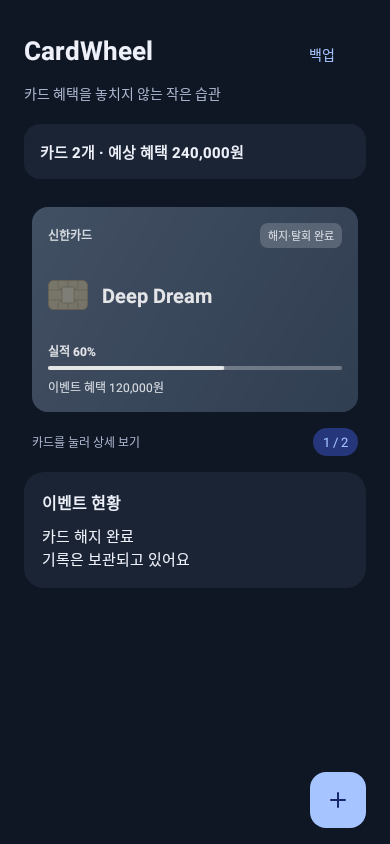
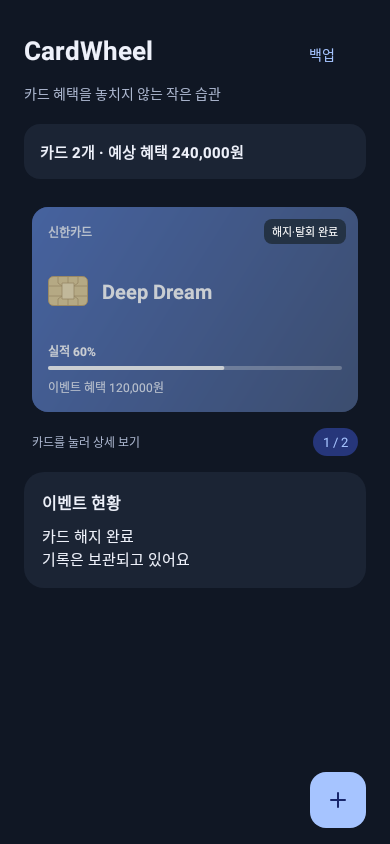
CardWheel-1.3.2

Changed region(s): [[0.0615, 0.2464, 0.9231, 0.4929]]

diff --git a/design-preview/index.html b/design-preview/index.html
@@ -1,5 +1,5 @@
-<!doctype html><html lang="ko"><meta charset="utf-8"><meta name="viewport" content="width=device-width, initial-scale=1"><title>CardWheel 1.3.1 디자인 미리보기</title><style>
+<!doctype html><html lang="ko"><meta charset="utf-8"><meta name="viewport" content="width=device-width, initial-scale=1"><title>CardWheel 1.3.2 디자인 미리보기</title><style>
 *{box-sizing:border-box}body{margin:0;background:#eef1f6;color:#18243d;font-family:system-ui,"Malgun Gothic",sans-serif}header{padding:40px 24px 24px;max-width:1440px;margin:auto}h1{font-size:28px;margin:0 0 12px}p{color:#65718a;line-height:1.6;margin:0 0 20px}.actions{display:flex;gap:8px}button{cursor:pointer;border:0;border-radius:12px;padding:12px 20px;background:white;color:#18243d;font-weight:600}button[aria-pressed=true]{background:#335ceb;color:white}main{max-width:1440px;margin:auto;display:grid;grid-template-columns:repeat(auto-fit,minmax(260px,1fr));gap:28px;padding:0 24px 40px}article{margin:0}h2{font-size:16px;margin:12px 0}img{display:block;width:100%;max-width:390px;border-radius:20px;box-shadow:0 8px 30px #18243d12}body.dark{background:#101724;color:#eef1fa}body.dark p{color:#adb8d0}body.dark button{background:#253246;color:#eef1fa}body.dark button[aria-pressed=true]{background:#a6c4ff;color:#18266b}
-</style><header><h1>CardWheel 1.3.1</h1><p>테두리는 줄이고, 카드와 정보가 잘 보이도록 정리했습니다.<br>샘플 데이터를 넣어 앱의 XML 화면을 렌더링한 미리보기입니다. 실제 휴대폰 캡처는 아닙니다.</p><div class="actions"><button aria-pressed="true" onclick="setMode(false)">밝은 화면</button><button aria-pressed="false" onclick="setMode(true)">어두운 화면</button></div></header><main><article><h2>내 카드</h2><img src="main-notnight.png" data-name="main" alt="내 카드 화면" loading="lazy"></article><article><h2>카드 상세</h2><img src="detail-notnight.png" data-name="detail" alt="카드 상세 화면" loading="lazy"></article><article><h2>카드 등록</h2><img src="form-notnight.png" data-name="form" alt="카드 등록 화면" loading="lazy"></article><article><h2>백업과 복원</h2><img src="backup-notnight.png" data-name="backup" alt="백업과 복원 화면" loading="lazy"></article><article><h2>상세 일정과 메모</h2><img src="detail-bottom-notnight.png" data-name="detail-bottom" alt="상세 일정과 메모 화면" loading="lazy"></article><article><h2>날짜 선택과 메모</h2><img src="form-bottom-notnight.png" data-name="form-bottom" alt="날짜 선택과 메모 화면" loading="lazy"></article><article><h2>서버 연결 설정</h2><img src="backup-bottom-notnight.png" data-name="backup-bottom" alt="서버 연결 설정 화면" loading="lazy"></article><article><h2>해지·탈회 완료 카드</h2><img src="main-cancelled-notnight.png" data-name="main-cancelled" alt="해지 완료 카드 화면" loading="lazy"></article></main><script>
+</style><header><h1>CardWheel 1.3.2</h1><p>테두리는 줄이고, 카드와 정보가 잘 보이도록 정리했습니다.<br>샘플 데이터를 넣어 앱의 XML 화면을 렌더링한 미리보기입니다. 실제 휴대폰 캡처는 아닙니다.</p><div class="actions"><button aria-pressed="true" onclick="setMode(false)">밝은 화면</button><button aria-pressed="false" onclick="setMode(true)">어두운 화면</button></div></header><main><article><h2>내 카드</h2><img src="main-notnight.png" data-name="main" alt="내 카드 화면" loading="lazy"></article><article><h2>카드 상세</h2><img src="detail-notnight.png" data-name="detail" alt="카드 상세 화면" loading="lazy"></article><article><h2>카드 등록</h2><img src="form-notnight.png" data-name="form" alt="카드 등록 화면" loading="lazy"></article><article><h2>백업과 복원</h2><img src="backup-notnight.png" data-name="backup" alt="백업과 복원 화면" loading="lazy"></article><article><h2>상세 일정과 메모</h2><img src="detail-bottom-notnight.png" data-name="detail-bottom" alt="상세 일정과 메모 화면" loading="lazy"></article><article><h2>날짜 선택과 메모</h2><img src="form-bottom-notnight.png" data-name="form-bottom" alt="날짜 선택과 메모 화면" loading="lazy"></article><article><h2>서버 연결 설정</h2><img src="backup-bottom-notnight.png" data-name="backup-bottom" alt="서버 연결 설정 화면" loading="lazy"></article><article><h2>해지·탈회 완료 카드</h2><img src="main-cancelled-notnight.png" data-name="main-cancelled" alt="해지 완료 카드 화면" loading="lazy"></article></main><script>
 function setMode(dark){document.body.classList.toggle('dark',dark);document.querySelectorAll('img[data-name]').forEach(img=>img.src=img.dataset.name+'-'+(dark?'night':'notnight')+'.png');document.querySelectorAll('button').forEach((b,i)=>b.setAttribute('aria-pressed',String(i===(dark?1:0))));}
 </script></html>

diff --git a/app/src/main/java/com/example/cardwheel/CardAdapter.kt b/app/src/main/java/com/example/cardwheel/CardAdapter.kt
@@ -34,30 +34,21 @@ class CardAdapter(private val onClick: (CardItem) -> Unit) : RecyclerView.Adapte
         with(holder.itemView) {
             val palette = IssuerCatalog.palette(card.company)
             val content = findViewById<View>(R.id.cardContent)
-            content.alpha = if (card.cancelled) 0.88f else 1f
-            findViewById<View>(R.id.cardChip).alpha = if (card.cancelled) 0.42f else 1f
+            content.alpha = 1f
+            findViewById<View>(R.id.cardChip).alpha = 1f
+            findViewById<View>(R.id.cancelledScrim).visibility = if (card.cancelled) View.VISIBLE else View.GONE
+            findViewById<View>(R.id.tvCancelledBadge).visibility = if (card.cancelled) View.VISIBLE else View.GONE
+            findViewById<View>(R.id.tvBrand).visibility = if (card.cancelled) View.INVISIBLE else View.VISIBLE
             content.background = GradientDrawable(
-                GradientDrawable.Orientation.TL_BR, if (card.cancelled) intArrayOf(Color.parseColor("#475569"), Color.parseColor("#334155")) else intArrayOf(Color.parseColor(palette.start), Color.parseColor(palette.end))
+                GradientDrawable.Orientation.TL_BR, intArrayOf(Color.parseColor(palette.start), Color.parseColor(palette.end))
             ).apply { cornerRadius = 16f * resources.displayMetrics.density }
-            val foreground = Color.parseColor(if (palette.light && !card.cancelled) "#322A16" else "#FFFFFF")
-            val secondary = Color.parseColor(if (card.cancelled) "#F1F5F9" else if (palette.light) "#514322" else "#E2E8F6")
+            val foreground = Color.parseColor(if (palette.light) "#322A16" else "#FFFFFF")
+            val secondary = Color.parseColor(if (palette.light) "#514322" else "#E2E8F6")
             listOf(R.id.tvCardName, R.id.tvProgress).forEach { findViewById<TextView>(it).setTextColor(foreground) }
             listOf(R.id.tvBrand, R.id.tvCompany, R.id.tvReward).forEach { findViewById<TextView>(it).setTextColor(secondary) }
             findViewById<LinearProgressIndicator>(R.id.progressSpend).apply {
-                setIndicatorColor(if (palette.light && !card.cancelled) foreground else Color.WHITE)
-                trackColor = Color.parseColor(if (palette.light && !card.cancelled) "#D2AB47" else "#55FFFFFF")
-            }
-            findViewById<TextView>(R.id.tvBrand).apply {
-                text = context.getString(if (card.cancelled) R.string.card_cancelled_badge else R.string.item_card_text_3)
-                textSize = if (card.cancelled) 11f else 9f
-                letterSpacing = if (card.cancelled) 0f else 0.12f
-                background = if (card.cancelled) GradientDrawable().apply {
-                    setColor(Color.parseColor("#33FFFFFF"))
-                    cornerRadius = 8f * resources.displayMetrics.density
-                } else null
-                val horizontal = if (card.cancelled) (8 * resources.displayMetrics.density).toInt() else 0
-                val vertical = if (card.cancelled) (4 * resources.displayMetrics.density).toInt() else 0
-                setPadding(horizontal, vertical, horizontal, vertical)
+                setIndicatorColor(if (palette.light) foreground else Color.WHITE)
+                trackColor = Color.parseColor(if (palette.light) "#D2AB47" else "#55FFFFFF")
             }
             findViewById<TextView>(R.id.tvCompany).text = card.company
             findViewById<TextView>(R.id.tvCardName).text = card.cardName

diff --git a/app/src/test/java/com/example/cardwheel/CardWorkflowTest.kt b/app/src/test/java/com/example/cardwheel/CardWorkflowTest.kt
@@ -50,14 +50,20 @@ class CardWorkflowTest {
         assertArrayEquals(intArrayOf(android.graphics.Color.parseColor("#17539A"), android.graphics.Color.parseColor("#142F59")), background.colors)
         adapter.submitItems(listOf(CardItem(id = 3, company = "KB국민카드", cardName = "해지한 카드", cancelled = true)))
         adapter.onBindViewHolder(holder, 0)
-        assertEquals(0.88f, holder.itemView.findViewById<View>(R.id.cardContent).alpha, 0.001f)
-        assertEquals("해지·탈회 완료", holder.itemView.findViewById<TextView>(R.id.tvBrand).text.toString())
-        assertNotNull(holder.itemView.findViewById<TextView>(R.id.tvBrand).background)
-        assertEquals(android.graphics.Color.WHITE, holder.itemView.findViewById<TextView>(R.id.tvCardName).currentTextColor)
+        assertEquals(1f, holder.itemView.findViewById<View>(R.id.cardContent).alpha, 0.001f)
+        assertEquals(View.VISIBLE, holder.itemView.findViewById<View>(R.id.cancelledScrim).visibility)
+        assertEquals("해지·탈회 완료", holder.itemView.findViewById<TextView>(R.id.tvCancelledBadge).text.toString())
+        assertEquals(View.VISIBLE, holder.itemView.findViewById<View>(R.id.tvCancelledBadge).visibility)
+        assertEquals(android.graphics.Color.parseColor("#322A16"), holder.itemView.findViewById<TextView>(R.id.tvCardName).currentTextColor)
+        val cancelledColors = (holder.itemView.findViewById<View>(R.id.cardContent).background as android.graphics.drawable.GradientDrawable).colors
+        val issuerPalette = IssuerCatalog.palette("KB국민카드")
+        assertArrayEquals(intArrayOf(android.graphics.Color.parseColor(issuerPalette.start), android.graphics.Color.parseColor(issuerPalette.end)), cancelledColors)
         adapter.submitItems(listOf(CardItem(id = 3, company = "KB국민카드", cardName = "해지 취소한 카드", cancelled = false)))
         adapter.onBindViewHolder(holder, 0)
         assertEquals(1f, holder.itemView.findViewById<View>(R.id.cardContent).alpha, 0.001f)
         assertEquals(1f, holder.itemView.findViewById<View>(R.id.cardChip).alpha, 0.001f)
+        assertEquals(View.GONE, holder.itemView.findViewById<View>(R.id.cancelledScrim).visibility)
+        assertEquals(View.GONE, holder.itemView.findViewById<View>(R.id.tvCancelledBadge).visibility)
         assertNull(holder.itemView.findViewById<TextView>(R.id.tvBrand).background)
         assertEquals(0, holder.itemView.findViewById<TextView>(R.id.tvBrand).paddingLeft)
         assertEquals(android.graphics.Color.parseColor("#322A16"), holder.itemView.findViewById<TextView>(R.id.tvCardName).currentTextColor)

diff --git a/README.md b/README.md
@@ -1,7 +1,7 @@
-# CardWheel 1.3.1 · 파일 백업 + MariaDB 직접 연결
+# CardWheel 1.3.2 · 파일 백업 + MariaDB 직접 연결
 
 기존 XML Views + Kotlin + Room Android 앱에 MariaDB JDBC 직접 백업·복원을 적용했습니다.
-이번 전체 UI 개선 버전은 **1.3.1 / versionCode 14**입니다.
+이번 전체 UI 개선 버전은 **1.3.2 / versionCode 15**입니다.
 
 ## 시작
 
@@ -27,9 +27,9 @@
 
 ## 이번 변경
 
-- 해지 완료(cancelled=true) 카드는 흐린 회청색 배경과 해지·탈회 완료 배지로 표시합니다. 카드 상세 보기는 유지하고, 해지 상태를 다시 끄면 카드사 색상·칩·투명도·배지를 모두 원래대로 복원합니다.
+- 해지 완료(cancelled=true) 카드는 원래 카드사 색상 위 반투명 회색 막과 해지·탈회 완료 배지로 표시합니다. 카드 상세 보기는 유지하고, 해지 상태를 다시 끄면 카드사 색상·칩·투명도·배지를 모두 원래대로 복원합니다.
 
-- 1.3.1에서는 스위치 외곽선을 없애고 고정 24dp 흰 손잡이를 유지했습니다. 파란 포인트와 중립 배경, 테두리 없는 정보 섹션, 일관된 버튼·입력창·툴바 스타일로 전체 화면을 정리했습니다.
+- 1.3.2에서는 스위치 외곽선을 없애고 고정 24dp 흰 손잡이를 유지했습니다. 파란 포인트와 중립 배경, 테두리 없는 정보 섹션, 일관된 버튼·입력창·툴바 스타일로 전체 화면을 정리했습니다.
 - 메인의 요약 정보와 페이지 표시, 빈 상태 아이콘을 정리했습니다. 카드 ViewPager의 크기·FAB 예약 영역·스와이프 처리는 유지합니다.
 - 상세 화면의 일정을 좌우 행으로 구성하고 상태를 배지로 표시했습니다. 등록 화면은 카드 정보·금액·일정·메모 섹션으로 구분하고 날짜 선택 버튼에 캘린더 아이콘을 넣었습니다.
 - 백업 화면은 파일 백업을 먼저 보여주며, 서버 연결 설정을 펼치고 접을 수 있습니다. 펼침 상태는 화면 회전 후 유지합니다.
@@ -63,7 +63,7 @@
 
 - 디버그·릴리즈 빌드 통과. 릴리즈 APK는 서명 전 파일입니다.
 - Android 단위/화면/Room 회귀 테스트 27개 통과, 실패 0.
-- lintDebug 오류 0, 경고 42개. 남은 경고는 의존성 업데이트·KTX/레이아웃/문자열 등 개선 제안입니다.
+- lintDebug 오류 0, 경고 37개. 남은 경고는 의존성 업데이트·KTX/레이아웃/문자열 등 개선 제안입니다.
 - 임시 MariaDB 11.4.9와 앱의 JVM 클래스/JDBC 드라이버로 일반 연결, 모든 필드 보존, 이전 revision 거부, 동시 저장, 잘못된 계정, PEM 인증서를 검증한 TLS, 신뢰하지 않는 TLS 인증서 거부, 빈 백업 등 8개 항목 통과.
 - 두 APK의 TLS 서비스 프로바이더 리소스 포함 확인.
 - 별도 Native 렌더링으로 샘플 데이터를 넣은 XML 화면 16장(라이트/다크, 스크롤 아래쪽 포함)을 생성하고 배치를 확인했습니다. 실제 휴대폰 캡처는 아닙니다.

diff --git a/database/README.md b/database/README.md
@@ -1,4 +1,4 @@
-# CardWheel 1.3.1 · MariaDB 직접 연결
+# CardWheel 1.3.2 · MariaDB 직접 연결
 
 추가 API 서버, Docker 컨테이너, 80/443 포트 설정 없이 기존 MariaDB에 JDBC로 직접 연결합니다. Room은 휴대폰 내부 저장소로 계속 사용하고 백업·복원할 때만 DB 연결을 열어 작업 후 닫습니다. 회원가입이나 자동 동기화는 포함하지 않습니다. 같은 DB 계정과 테이블을 사용하는 기기는 같은 카드 백업 한 개를 공유합니다.
 
@@ -61,4 +61,4 @@ YES라면 지원하며, TLS 연결 세션에서 `SHOW SESSION STATUS LIKE 'Ssl_c
 - 테이블/권한 오류: setup.sql 실행 여부, 입력한 DB 이름, 전용 계정의 세 가지 테이블 권한을 확인합니다.
 - TLS 오류: 서버의 TLS 지원과 인증서, SAN의 도메인/IP 일치 여부를 확인합니다. 일반 연결을 의도했다면 앱 TLS 옵션을 끕니다.
 
-기존 Room DB와 applicationId는 유지하고 이번 앱 버전은 **1.3.1(versionCode 14)**입니다. 기존 설치를 업데이트할 때는 같은 서명키로 빌드하세요.
+기존 Room DB와 applicationId는 유지하고 이번 앱 버전은 **1.3.2(versionCode 15)**입니다. 기존 설치를 업데이트할 때는 같은 서명키로 빌드하세요.
